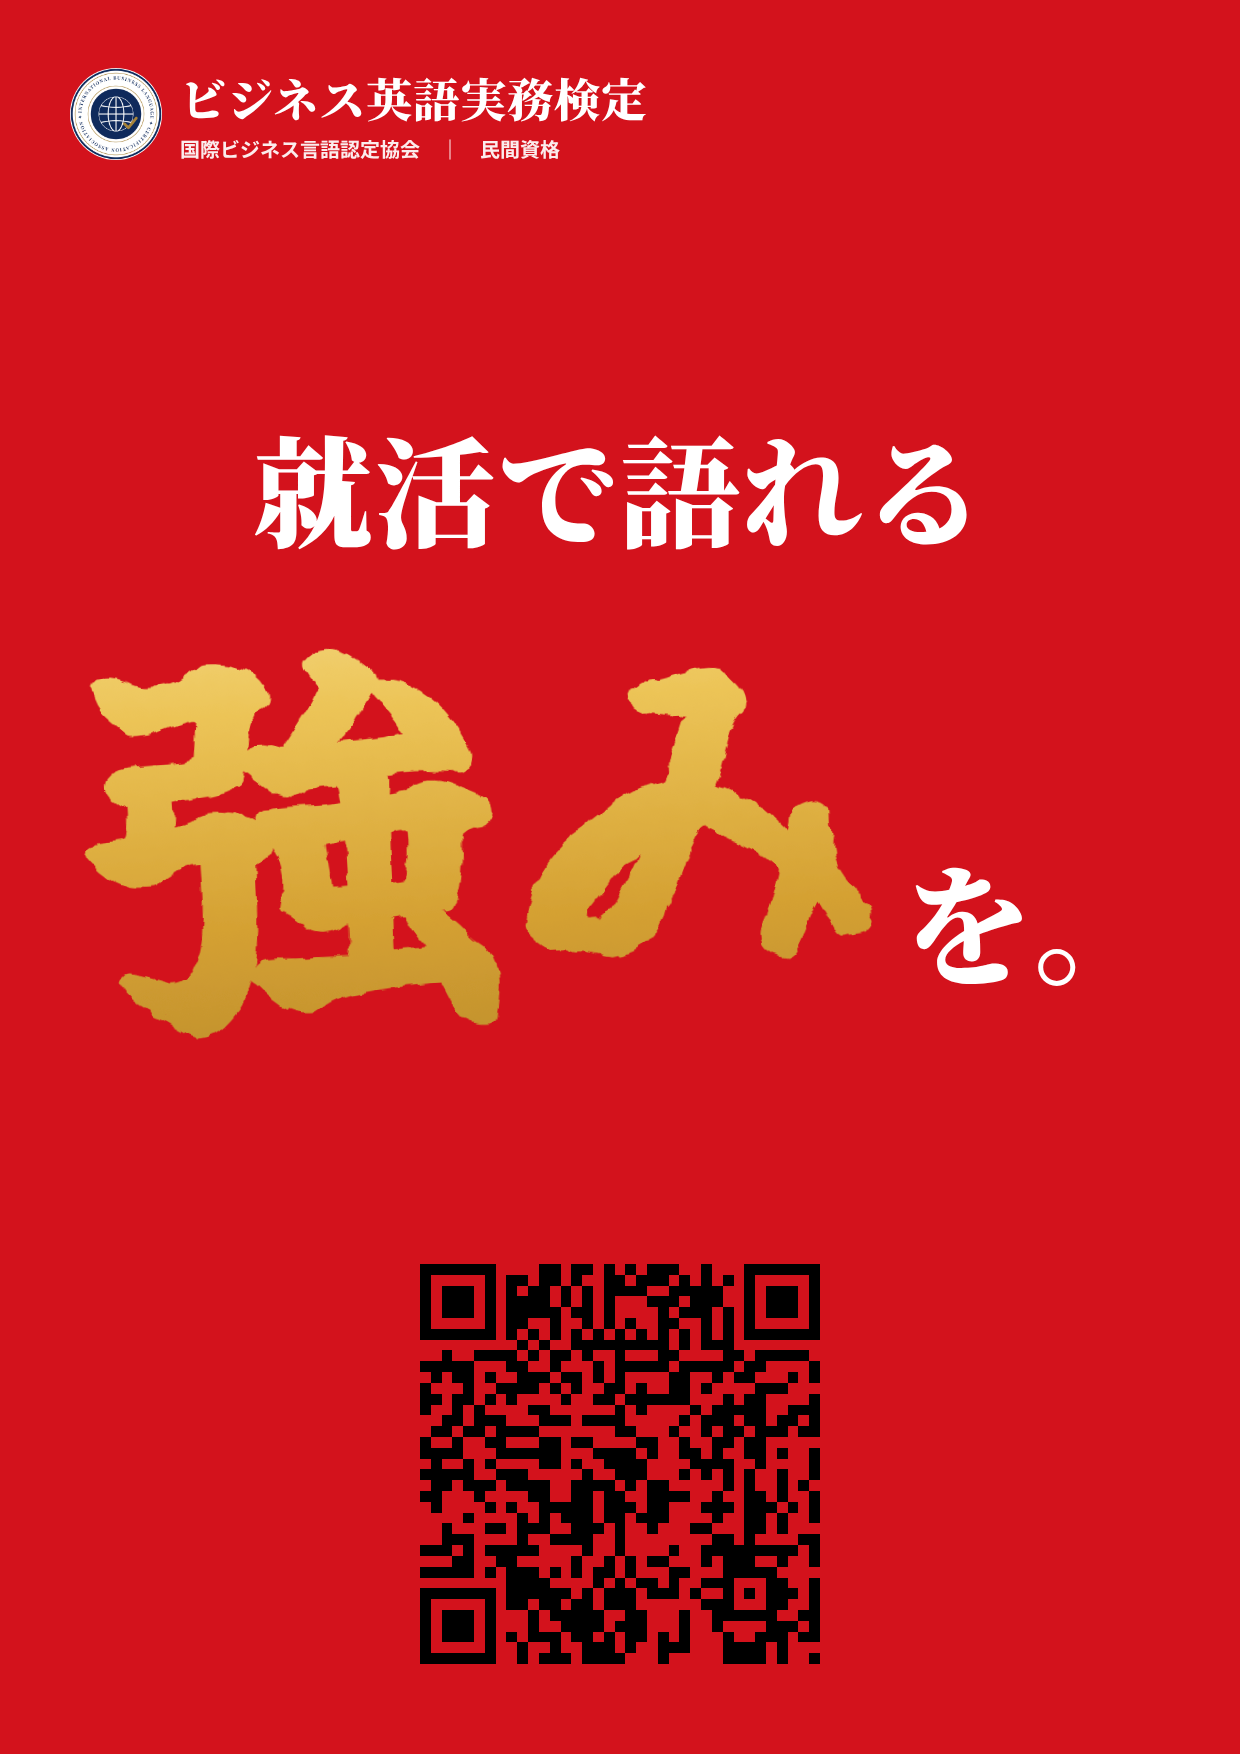
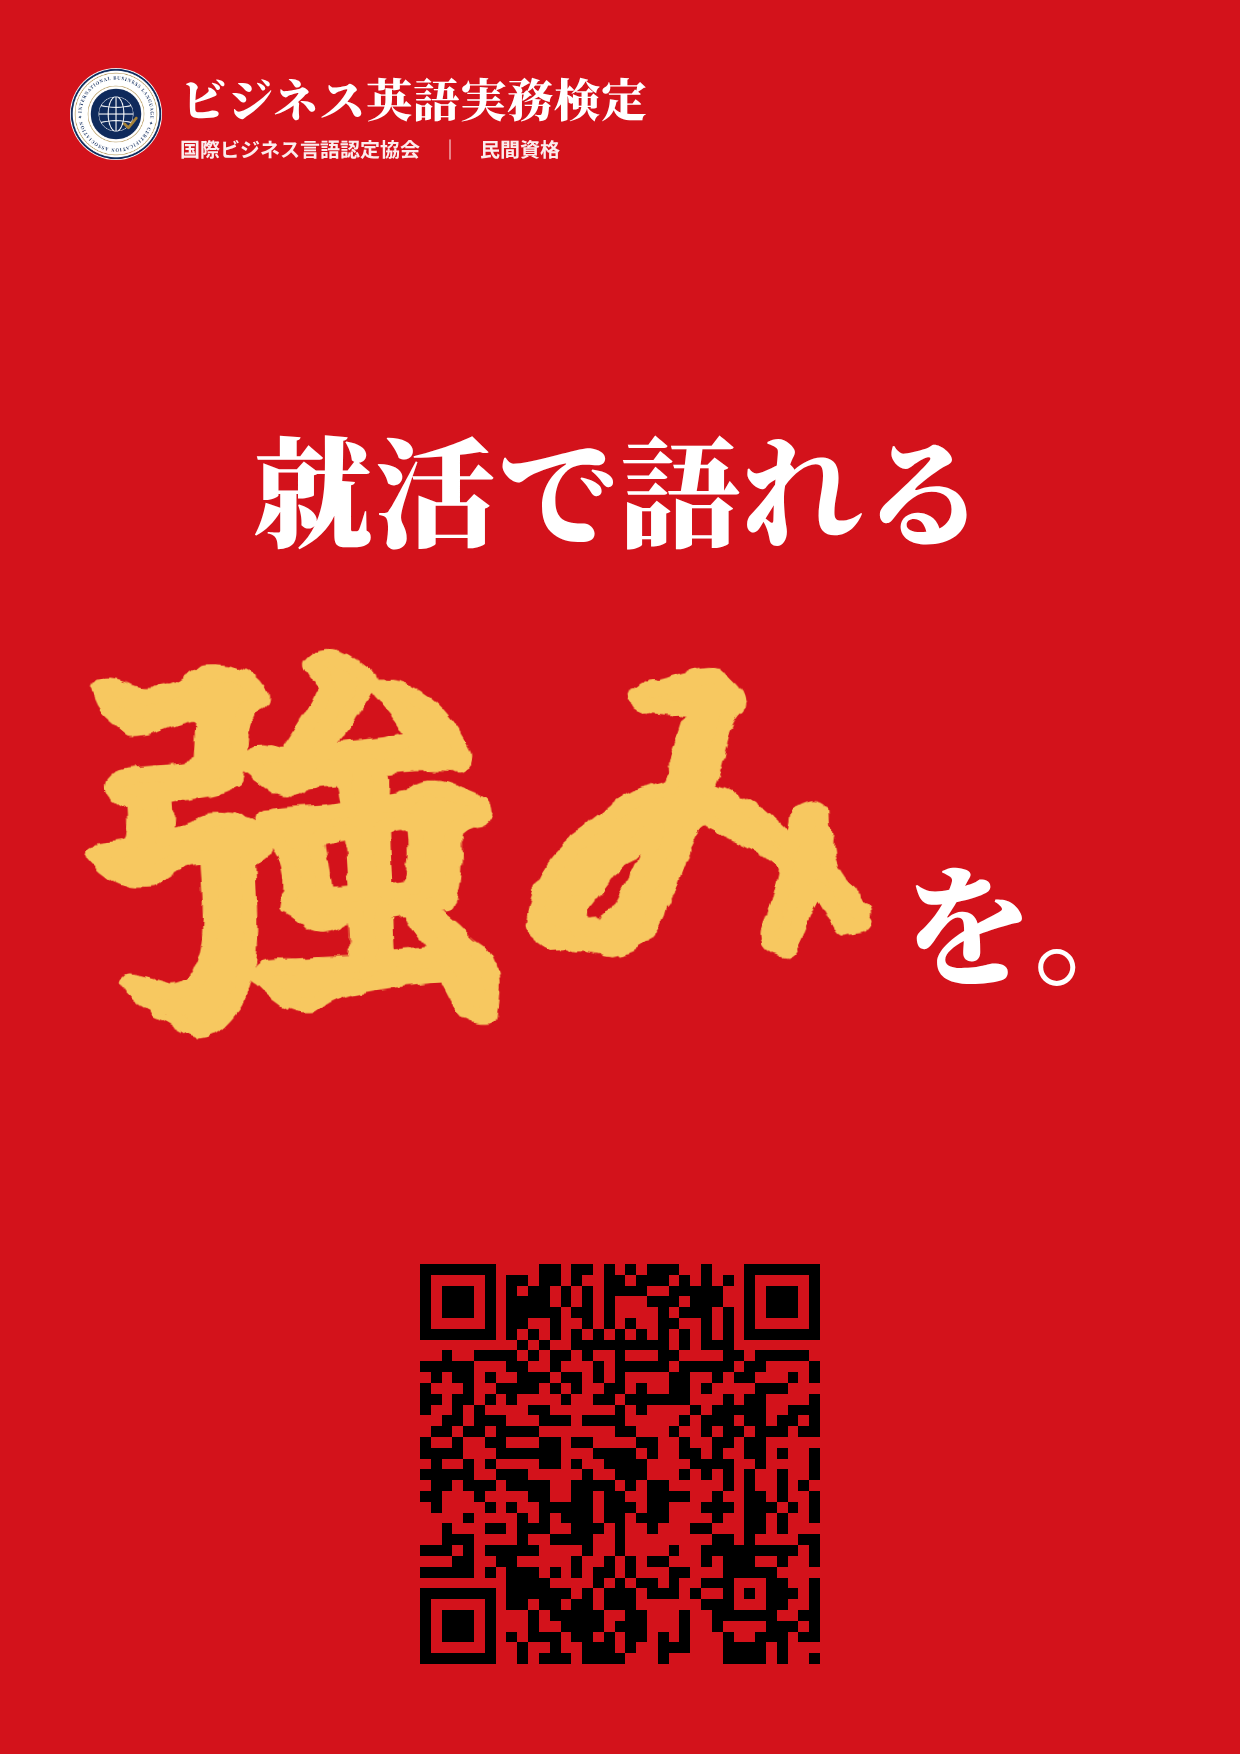
赤チラシの色を大将の見本どおりに固定
Claude-Session: https://claude.ai/code/session_01T3NaLWbuuvRT9b8SoudneK

Changed region(s): [[0.0613, 0.431, 0.429, 0.6157], [0.429, 0.431, 0.7048, 0.5542]]

diff --git a/連絡帳.md b/連絡帳.md
@@ -87,8 +87,8 @@
 ### 作戦2-B：大学の掲示板用チラシ（2種類）※大将が決定
 - ①紺：見本 assets/本陣へ/見本_大学チラシ_差をつけろ.png
   - 上に赤い帯「就活生応援キャンペーン」→ ホームページと同じ学生4人の写真（cp-ph4.jpg）をはっきり → 少し明るい紺の地（例 #1b3d72）に「ビジネス英語実務検定 初級」「受験料　無料」（横並び、無料は赤い札）「12/25まで」→ 見出し「履歴書で、周りと差をつけろ！」→ 20分・24時間・合格証 → 白い枠にQRと「履歴書を、より強く。強みを、より多く。」
-- ②赤：見本 assets/本陣へ/見本_大学チラシ_強み_赤.png
-  - 全面赤。左上に「ビジネス英語実務検定」ロゴ（国際ビジネス言語認定協会｜民間資格）。真ん中に「就活で語れる」（白）＋「強み」（黄色ではない本物の金。上が明るく下が濃い金のグラデーション 例 #fbe7a1→#d4a032→#b98a2b。影はつけない。太い筆文字で特大。ふちがかすれた墨の筆っぽさを出す）＋「を。」（白）。下にQRだけ（白い台なし・黒だけで大きく。誤り訂正レベルH。印刷前に実物をスマホ数台で読み取り確認）。ほかの文字は足さない（大将の指示）。
+- ②赤：見本 assets/本陣へ/見本_大学チラシ_強み_赤.png（色は「赤 #d3121b × 金 #f7c860」で固定。大将が「絶対これがいい」と決定）
+  - 全面赤。左上に「ビジネス英語実務検定」ロゴ（国際ビジネス言語認定協会｜民間資格）。真ん中に「就活で語れる」（白）＋「強み」（色は大将の見本と同じ：赤 #d3121b の地に、金 #f7c860 のベタ塗り。グラデーションも影もなし。太い筆文字で特大。ふちがかすれた墨の筆っぽさを出す）＋「を。」（白）。下にQRだけ（白い台なし・黒だけで大きく。誤り訂正レベルH。印刷前に実物をスマホ数台で読み取り確認）。ほかの文字は足さない（大将の指示）。
 - 上の作戦2（白のチラシ）は、お母さん向けの手渡し・ポスティング用として別に作る。
 
 ### できあがったら（作戦1・2 共通）
